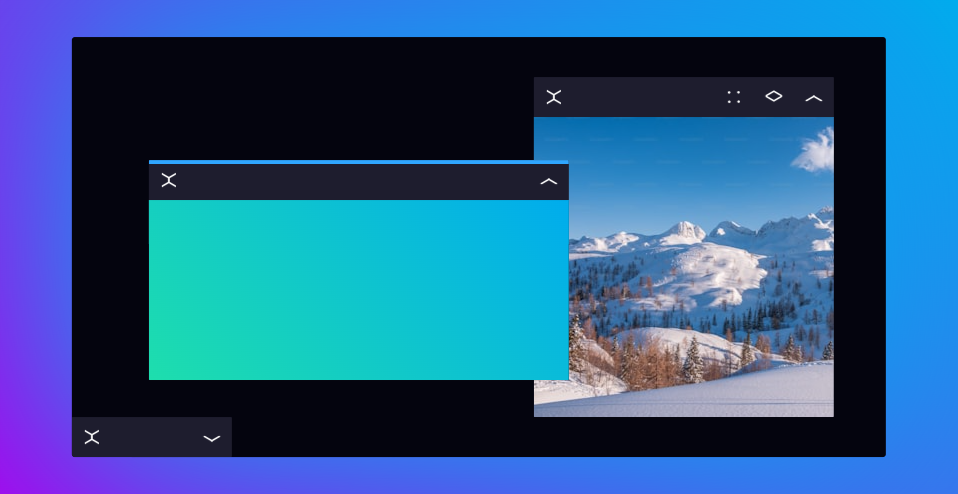
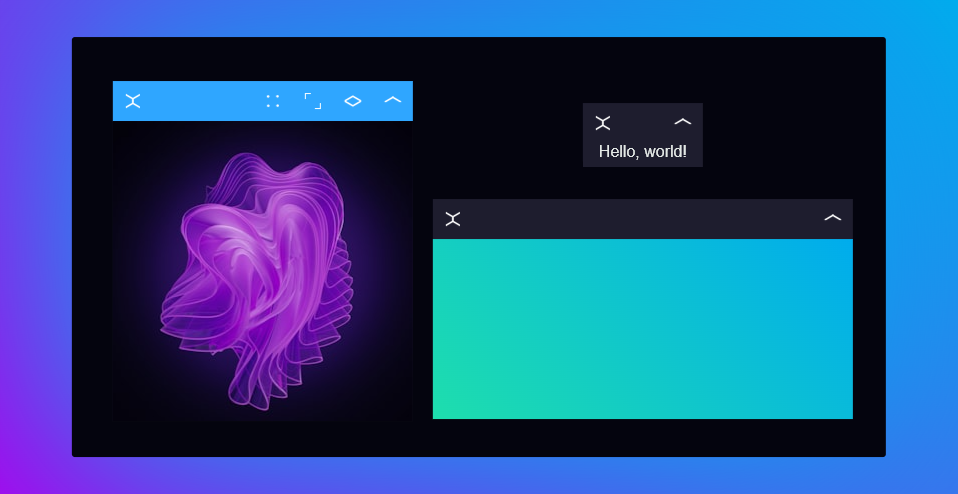
TODOS completed

diff --git a/README.md b/README.md
@@ -12,4 +12,31 @@ panels module in TypeScript for easy window-style panels
 
 ##### Usage
 
-# README content pending
+initialization
+
+```typescript
+import "../SCSS/panels.scss";
+import { Panels, Panel } from "./panels.ts";
+
+const panels = new Panels();
+document.body.append(panels);
+```
+
+create a panel
+
+```typescript
+const panel_text: Panel = panels.new_panel();
+panel_text.content.textContent = "Hello, world!";
+```
+
+create a resizable panel
+
+```typescript
+const panel_resizable: Panel = panels.new_panel({
+	resizable: true,
+	preservable: true,
+	spawn_at_random: true,
+	spawn_at_cursor: false,
+});
+panel_resizable.content.textContent = "Resizable panel!";
+```

diff --git a/TODOS.md b/TODOS.md
@@ -1,5 +1,1 @@
 # TODO
-
-- example image
-- usage README.md
-- verify requirements README.md
